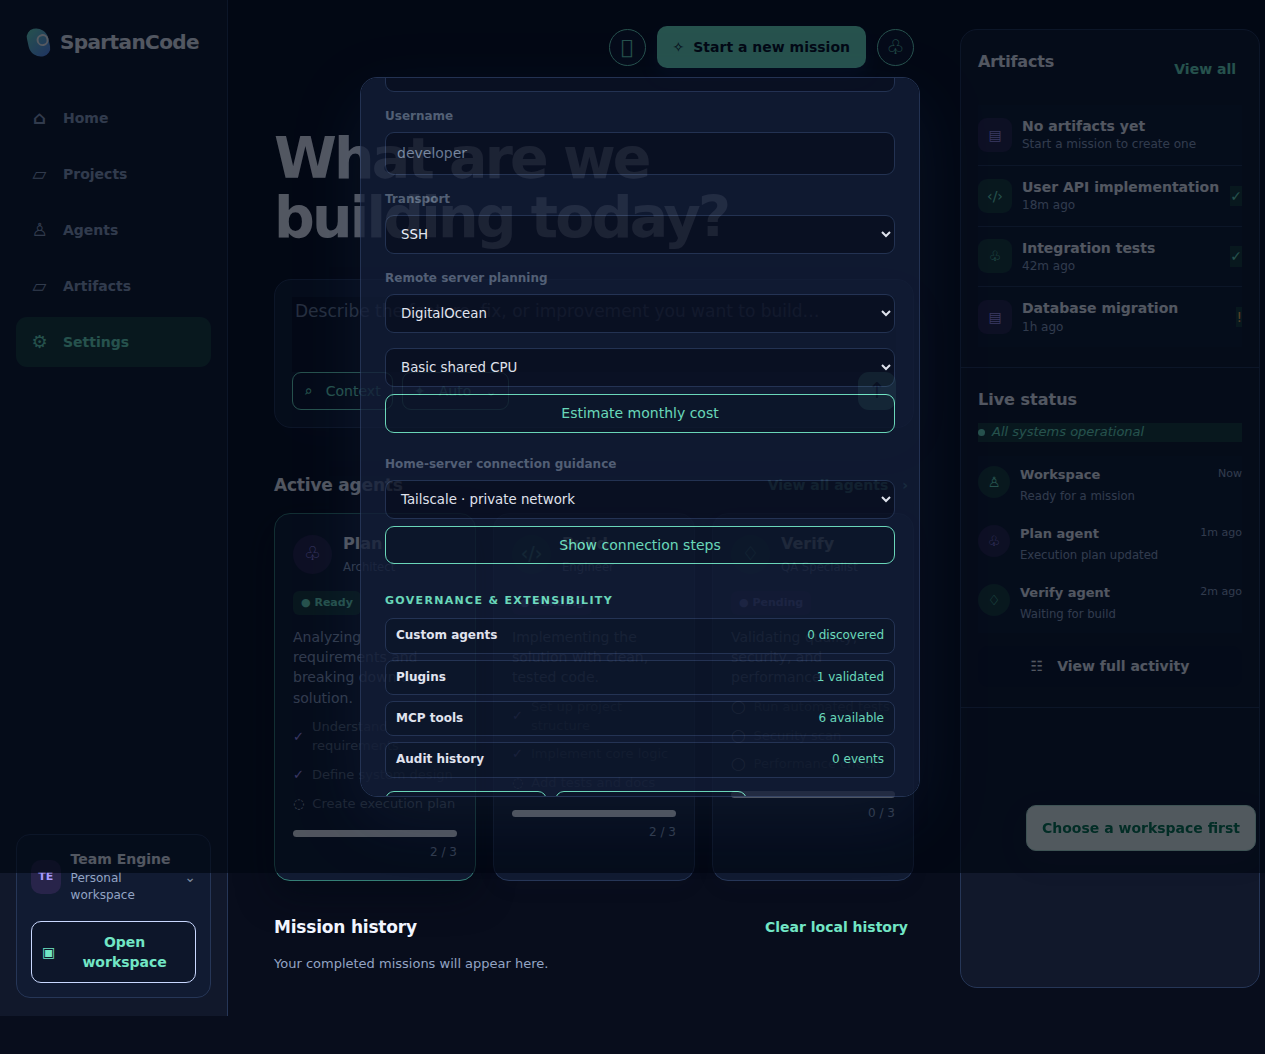
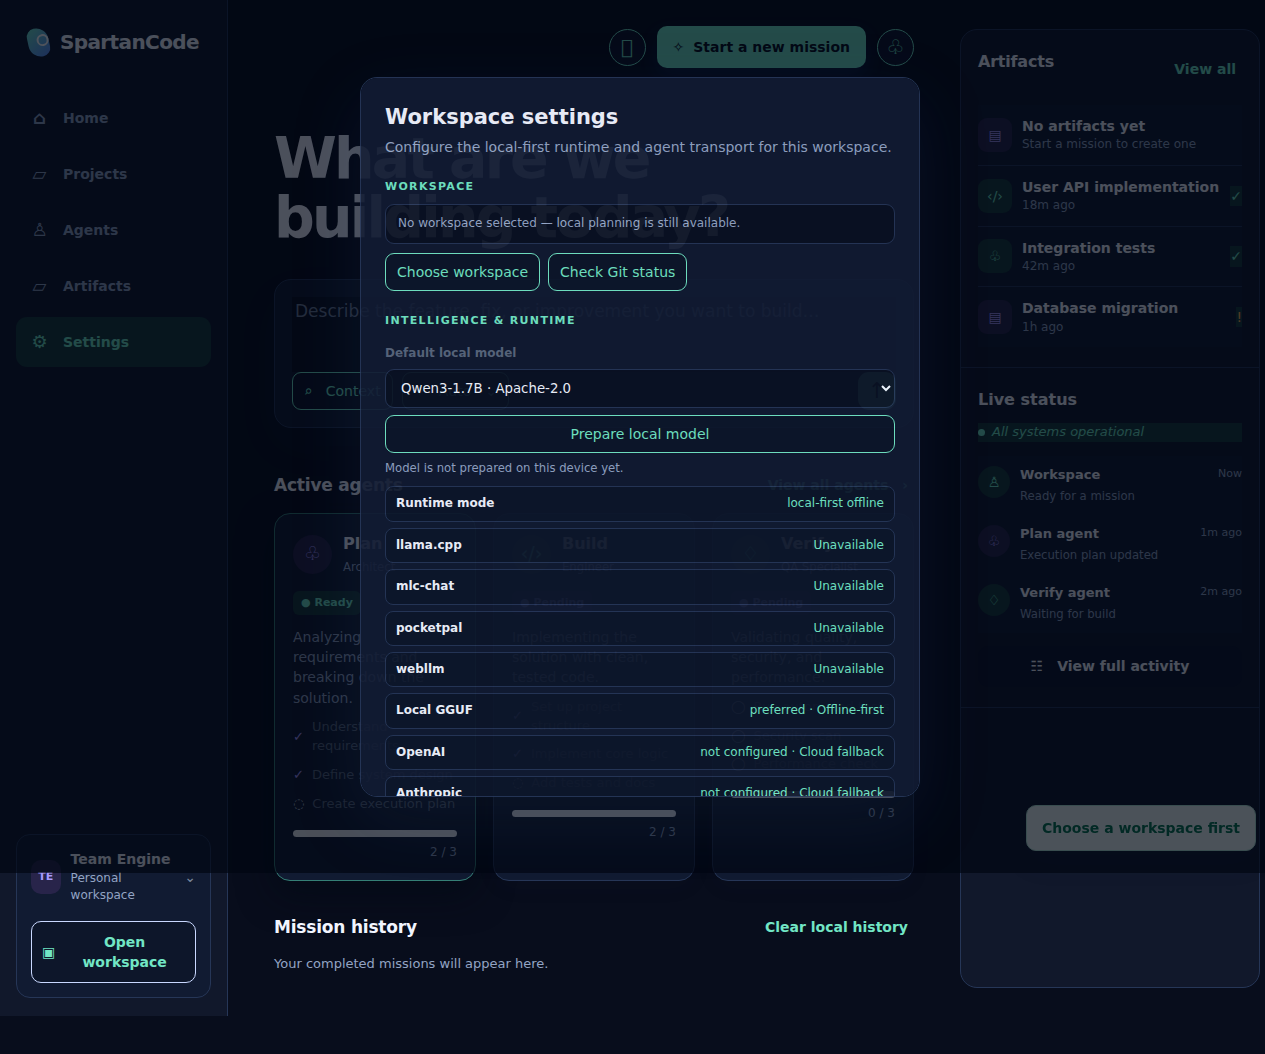
docs: show complete settings surfaces

Changed region(s): [[0.3083, 0.0911, 0.7091, 0.759]]

diff --git a/README.md b/README.md
@@ -26,6 +26,8 @@ Explore the workspace surfaces:
 | --- | --- | --- |
 | ![Artifact review](docs/assets/desktop-menu-gallery/desktop-artifacts.png) | ![Workspace settings](docs/assets/desktop-menu-gallery/desktop-settings.png) | ![Assistant menu](docs/assets/desktop-menu-gallery/desktop-menu-assistant.png) |
 
+![Settings governance and extensibility](docs/assets/desktop-menu-gallery/desktop-settings-governance.png)
+
 | Mission composer | Android command center | Android mission queue |
 | --- | --- | --- |
 | ![Mission composer](docs/assets/desktop-menu-gallery/desktop-composer-filled.png) | ![Android command center](android/screenshots/command-center.png) | ![Android mission queued](android/screenshots/mission-queued.png) |

diff --git a/android/ABOUT.md b/android/ABOUT.md
@@ -35,6 +35,8 @@ surface while preserving the Spartan IDE color system.
 
 ![Workspace settings](../docs/assets/desktop-menu-gallery/desktop-settings.png)
 
+![Settings governance and extensibility](../docs/assets/desktop-menu-gallery/desktop-settings-governance.png)
+
 ![Spartan assistant](../docs/assets/desktop-menu-gallery/desktop-menu-assistant.png)
 
 ![Mission composer](../docs/assets/desktop-menu-gallery/desktop-composer-filled.png)
